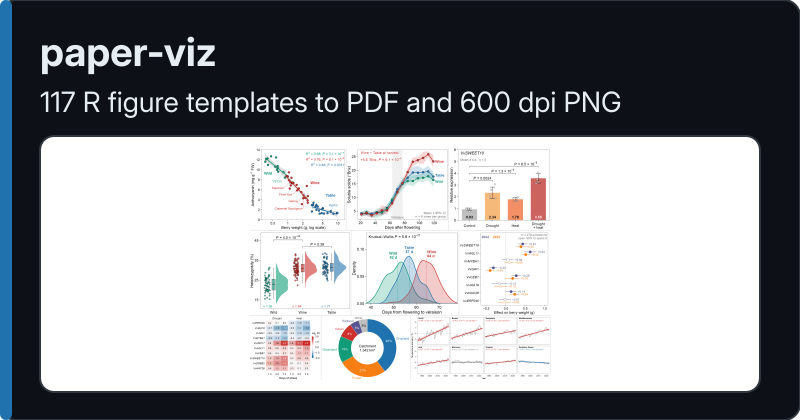
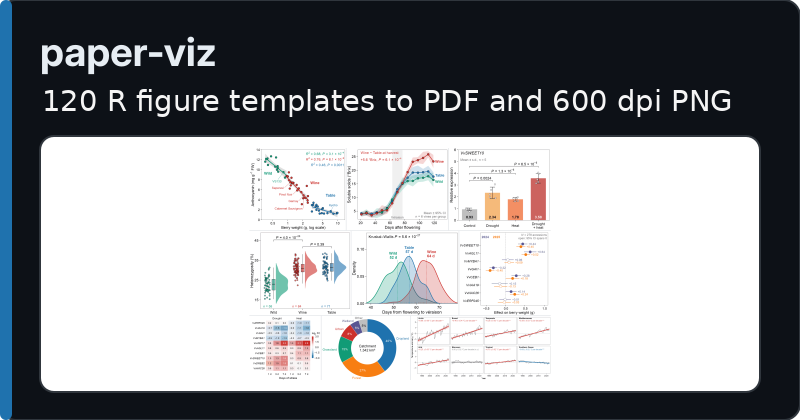
Bump paper-viz count from 117 to 120 on the profile cards

Changed region(s): [[0.0312, 0.2167, 0.9375, 0.2786]]

diff --git a/README.md b/README.md
@@ -15,10 +15,10 @@ I build pipelines and analyze grapevine genomes, focusing on clones, pangenomes,
       <a href="https://github.com/Xuzhen-Li/paper-viz">
         <picture>
           <source media="(prefers-color-scheme: dark)" srcset="assets/card-paper-viz-dark.png">
-          <img alt="paper-viz: 117 R figure templates" src="assets/card-paper-viz-light.png">
+          <img alt="paper-viz: 120 R figure templates" src="assets/card-paper-viz-light.png">
         </picture>
       </a><br>
-      Run 117 R figure templates to generate vector PDFs and 600 dpi PNGs.
+      Run 120 R figure templates to generate vector PDFs and 600 dpi PNGs.
     </td>
     <td width="50%">
       <a href="https://github.com/Xuzhen-Li/grapeancestry">
@@ -111,7 +111,7 @@ I build pipelines and analyze grapevine genomes, focusing on clones, pangenomes,
 
 | Repository | What it does |
 | --- | --- |
-| [paper-viz](https://github.com/Xuzhen-Li/paper-viz) | R-first publication figure gallery: 117 templates (code + simulated data + preview), browsable web gallery, agent-callable. |
+| [paper-viz](https://github.com/Xuzhen-Li/paper-viz) | R-first publication figure gallery: 120 templates (code + simulated data + preview), browsable web gallery, agent-callable. |
 | [paper-reading](https://github.com/Xuzhen-Li/paper-reading) | Turns one research PDF into a Chinese illustrated reading note; your PDF library stays on your machine. |
 | [literature-review-skills](https://github.com/Xuzhen-Li/literature-review-skills) | An agent-agnostic skill suite for writing literature reviews that stops at human gates, with every claim tied to a source the project actually holds. |
 | [patent-drafting-skills](https://github.com/Xuzhen-Li/patent-drafting-skills) | Bilingual (EN/中文) agent skills for drafting invention patents — CN, US and PCT: disclosure, prior-art search, inventive step, claims, description, drawings, consistency checks, .docx export. |

diff --git a/README.zh.md b/README.zh.md
@@ -15,10 +15,10 @@
       <a href="https://github.com/Xuzhen-Li/paper-viz">
         <picture>
           <source media="(prefers-color-scheme: dark)" srcset="assets/card-paper-viz-dark.png">
-          <img alt="paper-viz: 117个R绘图模板" src="assets/card-paper-viz-light.png">
+          <img alt="paper-viz: 120个R绘图模板" src="assets/card-paper-viz-light.png">
         </picture>
       </a><br>
-      运行117个R语言绘图模板，生成矢量PDF和600 dpi的PNG图。
+      运行120个R语言绘图模板，生成矢量PDF和600 dpi的PNG图。
     </td>
     <td width="50%">
       <a href="https://github.com/Xuzhen-Li/grapeancestry">
@@ -111,7 +111,7 @@
 
 | 仓库 | 功能说明 |
 | --- | --- |
-| [paper-viz](https://github.com/Xuzhen-Li/paper-viz) | 以 R 为主的出版级图表画廊：117个模板（代码+模拟数据+预览），支持Web浏览与Agent调用。 |
+| [paper-viz](https://github.com/Xuzhen-Li/paper-viz) | 以 R 为主的出版级图表画廊：120个模板（代码+模拟数据+预览），支持Web浏览与Agent调用。 |
 | [paper-reading](https://github.com/Xuzhen-Li/paper-reading) | 将单篇研究PDF转换为中文图文阅读笔记；您的PDF库保存在本地。 |
 | [literature-review-skills](https://github.com/Xuzhen-Li/literature-review-skills) | 独立于Agent的文献综述撰写技能套件，并在人工把关处停止，每一项声明均绑定至项目持有的来源。 |
 | [patent-drafting-skills](https://github.com/Xuzhen-Li/patent-drafting-skills) | 中英双语的起草发明专利Agent技能——覆盖中美及PCT：公开、现有技术检索、创造性、权利要求、说明书、附图、一致性检查与.docx导出。 |
